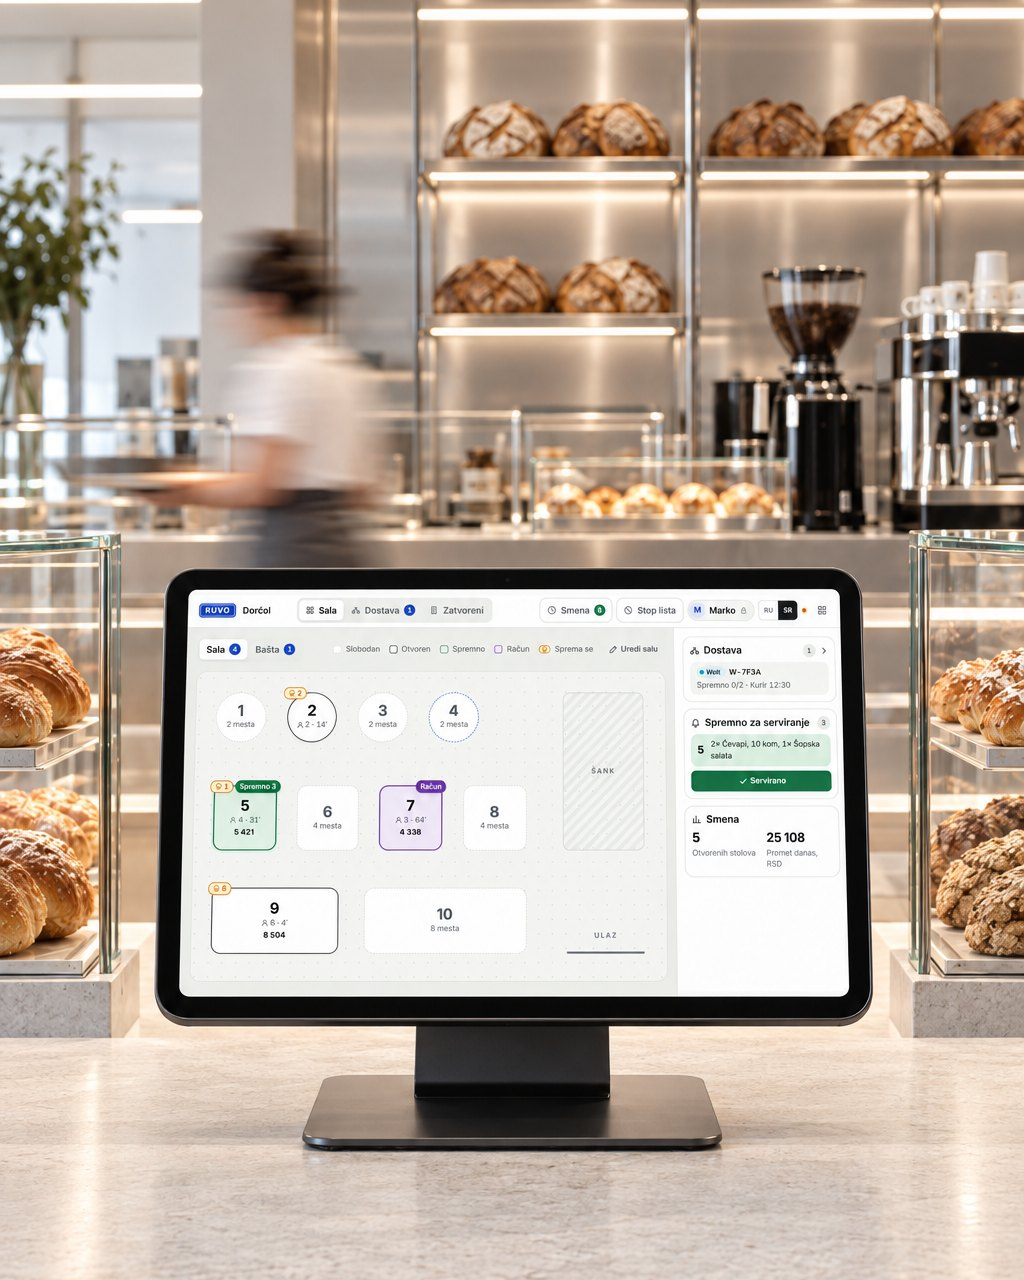
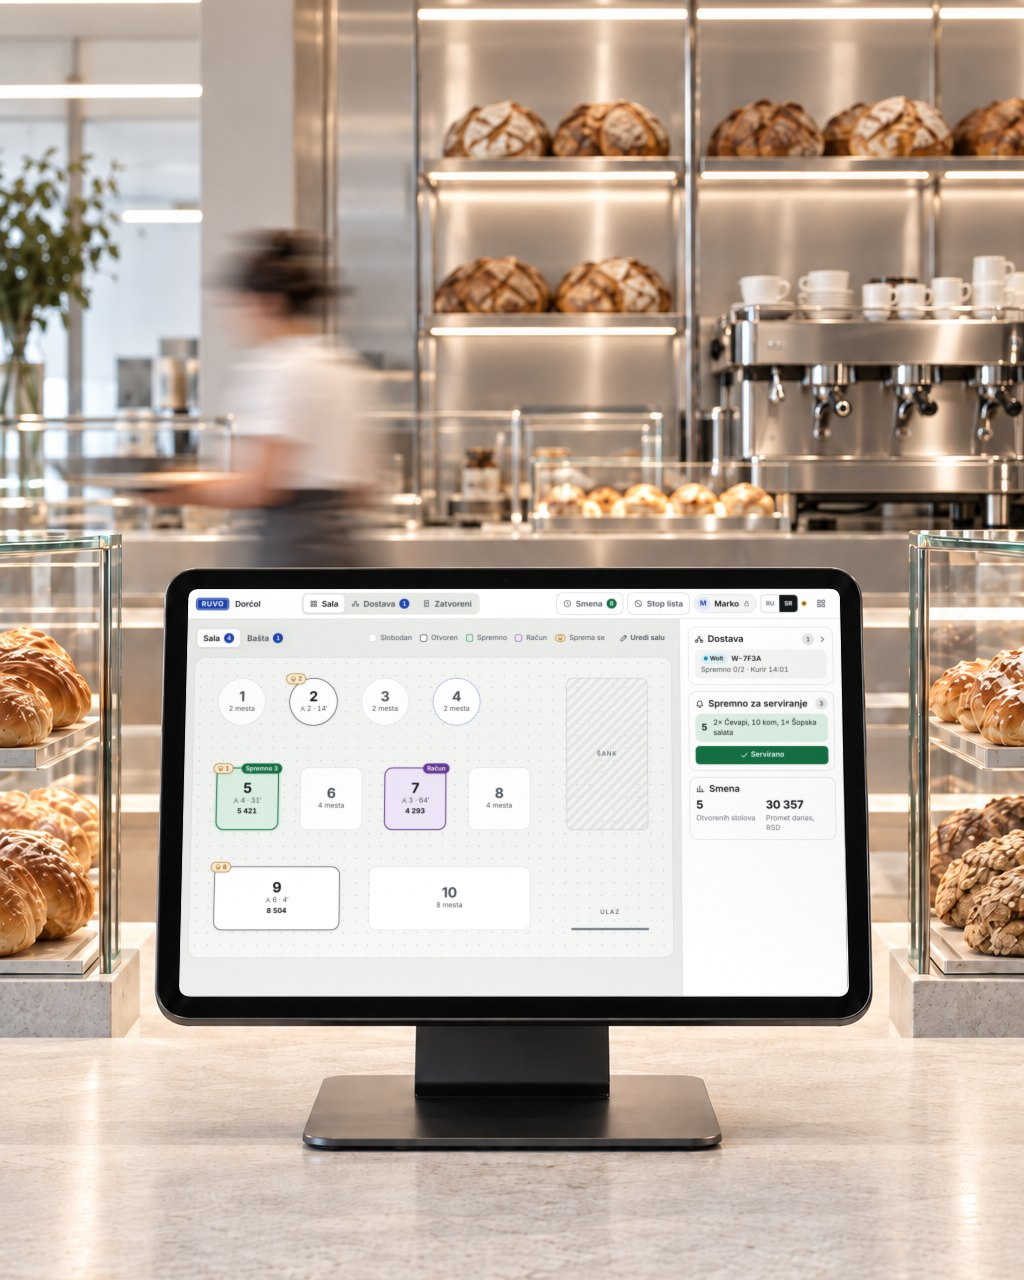
Главная: другое фото первого экрана, с настоящим экраном RUVO
Фото 1 заменено по просьбе владельца («Поменяй фото»). Надписи на экране у нового фото
вышли с ошибками — на экран вставлен настоящий скриншот плана зала (перспектива по краям
экрана, свет и зерно фото). У фото в адресе — версия по содержимому, чтобы браузеры
сразу показывали новое.

Claude-Session: https://claude.ai/code/session_01Dy5uKeVQDTXuxVoNHW6rov

diff --git a/docs/ru/index.html b/docs/ru/index.html
@@ -922,7 +922,7 @@ background: var(--surface); color: var(--ink); font: inherit; font-size: var(--f
 <p class="lead">RUVO принимает заказы на iPad и iPhone, отправляет их на экран кухни, списывает продукты по техкартам и строит отчёты. Для одного заведения или целой сети.</p>
 <div class="cta-row"><a class="btn" href="demo/"><svg viewBox="0 0 24 24" fill="currentColor" aria-hidden="true"><path d="M8 5.6v12.8a1 1 0 0 0 1.53.85l10.2-6.4a1 1 0 0 0 0-1.7L9.53 4.75A1 1 0 0 0 8 5.6z"/></svg>Попробовать демо</a><a class="btn ghost" href="mailto:hello@ruvo.ac"><svg viewBox="0 0 24 24" fill="none" stroke="currentColor" stroke-width="2" stroke-linecap="round" stroke-linejoin="round" aria-hidden="true"><rect x="3" y="5" width="18" height="14" rx="2"/><path d="m4 7 8 6 8-6"/></svg>Напишите нам</a></div>
 </div>
-<div class="hero-art has-photo"><figure class="photo" style="--ratio: 4 / 5"><img src="../img/hero.jpg" alt="Фронт RUVO с планом зала на стойке кафе, за ним — полки с хлебом" fetchpriority="high" decoding="async"></figure><div class="scene" role="img" aria-label="Пример: заказ стола 12 на iPad и тот же заказ на экране кухни">
+<div class="hero-art has-photo"><figure class="photo" style="--ratio: 4 / 5"><img src="../img/hero.jpg?v=21bf67e586" alt="Фронт RUVO с планом зала на стойке кафе, за ним — полки с хлебом" fetchpriority="high" decoding="async"></figure><div class="scene" role="img" aria-label="Пример: заказ стола 12 на iPad и тот же заказ на экране кухни">
 <div class="pad">
 <div class="pad-head"><span class="pad-title">Стол 12</span><span class="pad-meta">4 гостя · Marko</span></div>
 <div class="pad-lines"><div class="pl"><span class="pl-n">Чевапи, 10 шт</span><span class="pl-q">×2</span><span class="pl-p">2 580</span></div><div class="pl"><span class="pl-n">Шопский салат</span><span class="pl-q">×1</span><span class="pl-p">590</span></div><div class="pl"><span class="pl-n">Домашний лимонад</span><span class="pl-q">×3</span><span class="pl-p">1 050</span></div><div class="course">Курс 2 · ждёт вызова</div><div class="pl later"><span class="pl-n">Палачинки с шоколадом</span><span class="pl-q">×2</span><span class="pl-p">1 040</span></div></div>

diff --git a/docs/index.html b/docs/index.html
@@ -922,7 +922,7 @@ background: var(--surface); color: var(--ink); font: inherit; font-size: var(--f
 <p class="lead">RUVO prima porudžbine na <span class="nw">iPad-u</span> i <span class="nw">iPhone-u</span>, šalje ih na ekran kuhinje, otpisuje namirnice po normativima i pravi izveštaje. Za jedan objekat ili za celu mrežu.</p>
 <div class="cta-row"><a class="btn" href="demo/"><svg viewBox="0 0 24 24" fill="currentColor" aria-hidden="true"><path d="M8 5.6v12.8a1 1 0 0 0 1.53.85l10.2-6.4a1 1 0 0 0 0-1.7L9.53 4.75A1 1 0 0 0 8 5.6z"/></svg>Isprobajte demo</a><a class="btn ghost" href="mailto:hello@ruvo.ac"><svg viewBox="0 0 24 24" fill="none" stroke="currentColor" stroke-width="2" stroke-linecap="round" stroke-linejoin="round" aria-hidden="true"><rect x="3" y="5" width="18" height="14" rx="2"/><path d="m4 7 8 6 8-6"/></svg>Pišite nam</a></div>
 </div>
-<div class="hero-art has-photo"><figure class="photo" style="--ratio: 4 / 5"><img src="img/hero.jpg" alt="Terminal sale RUVO sa planom sale na pultu kafića, iza njega police sa hlebom" fetchpriority="high" decoding="async"></figure><div class="scene" role="img" aria-label="Primer: porudžbina za stolom 12 na iPad-u i ista porudžbina na ekranu kuhinje">
+<div class="hero-art has-photo"><figure class="photo" style="--ratio: 4 / 5"><img src="img/hero.jpg?v=21bf67e586" alt="Terminal sale RUVO sa planom sale na pultu kafića, iza njega police sa hlebom" fetchpriority="high" decoding="async"></figure><div class="scene" role="img" aria-label="Primer: porudžbina za stolom 12 na iPad-u i ista porudžbina na ekranu kuhinje">
 <div class="pad">
 <div class="pad-head"><span class="pad-title">Sto 12</span><span class="pad-meta">4 gosta · Marko</span></div>
 <div class="pad-lines"><div class="pl"><span class="pl-n">Ćevapi, 10 kom</span><span class="pl-q">×2</span><span class="pl-p">2.580</span></div><div class="pl"><span class="pl-n">Šopska salata</span><span class="pl-q">×1</span><span class="pl-p">590</span></div><div class="pl"><span class="pl-n">Domaća limunada</span><span class="pl-q">×3</span><span class="pl-p">1.050</span></div><div class="course">Kurs 2 · čeka poziv</div><div class="pl later"><span class="pl-n">Palačinke sa čokoladom</span><span class="pl-q">×2</span><span class="pl-p">1.040</span></div></div>

diff --git a/docs/en/index.html b/docs/en/index.html
@@ -922,7 +922,7 @@ background: var(--surface); color: var(--ink); font: inherit; font-size: var(--f
 <p class="lead">RUVO takes orders on iPad and iPhone, sends them to the kitchen screen, writes off ingredients by recipe and builds the reports. For one venue or a whole group.</p>
 <div class="cta-row"><a class="btn" href="../demo/"><svg viewBox="0 0 24 24" fill="currentColor" aria-hidden="true"><path d="M8 5.6v12.8a1 1 0 0 0 1.53.85l10.2-6.4a1 1 0 0 0 0-1.7L9.53 4.75A1 1 0 0 0 8 5.6z"/></svg>Try the demo</a><a class="btn ghost" href="mailto:hello@ruvo.ac"><svg viewBox="0 0 24 24" fill="none" stroke="currentColor" stroke-width="2" stroke-linecap="round" stroke-linejoin="round" aria-hidden="true"><rect x="3" y="5" width="18" height="14" rx="2"/><path d="m4 7 8 6 8-6"/></svg>Write to us</a></div>
 </div>
-<div class="hero-art has-photo"><figure class="photo" style="--ratio: 4 / 5"><img src="../img/hero.jpg" alt="The RUVO front terminal showing the floor plan on a café counter, bread shelves behind it" fetchpriority="high" decoding="async"></figure><div class="scene" role="img" aria-label="Example: the order for table 12 on the iPad and the same order on the kitchen screen">
+<div class="hero-art has-photo"><figure class="photo" style="--ratio: 4 / 5"><img src="../img/hero.jpg?v=21bf67e586" alt="The RUVO front terminal showing the floor plan on a café counter, bread shelves behind it" fetchpriority="high" decoding="async"></figure><div class="scene" role="img" aria-label="Example: the order for table 12 on the iPad and the same order on the kitchen screen">
 <div class="pad">
 <div class="pad-head"><span class="pad-title">Table 12</span><span class="pad-meta">4 guests · Marko</span></div>
 <div class="pad-lines"><div class="pl"><span class="pl-n">Ćevapi, 10 pcs</span><span class="pl-q">×2</span><span class="pl-p">2,580</span></div><div class="pl"><span class="pl-n">Shopska salad</span><span class="pl-q">×1</span><span class="pl-p">590</span></div><div class="pl"><span class="pl-n">Homemade lemonade</span><span class="pl-q">×3</span><span class="pl-p">1,050</span></div><div class="course">Course 2 · waits for the call</div><div class="pl later"><span class="pl-n">Pancakes with chocolate</span><span class="pl-q">×2</span><span class="pl-p">1,040</span></div></div>

diff --git a/src/photos/README.md b/src/photos/README.md
@@ -25,5 +25,6 @@
 только настоящее.
 
 Есть:
-- `hero.jpg` (13 октября) — сгенерирован в ChatGPT по промту «Фото 1», на экране — настоящий план зала RUVO (демо, Дорчол);
-  обрезан до 4:5 (1024 × 1280).
+- `hero.jpg` (13 октября, второй вариант — владелец: «Поменяй фото») — сгенерирован в ChatGPT по промту «Фото 1»; надписи
+  на экране у него вышли с ошибками, поэтому на экран вставлен настоящий скриншот плана зала RUVO (демо, Дорчол, 1296 × 800)
+  с перспективой по краям экрана, светом и зерном фото; обрезан до 4:5 (1024 × 1280).
